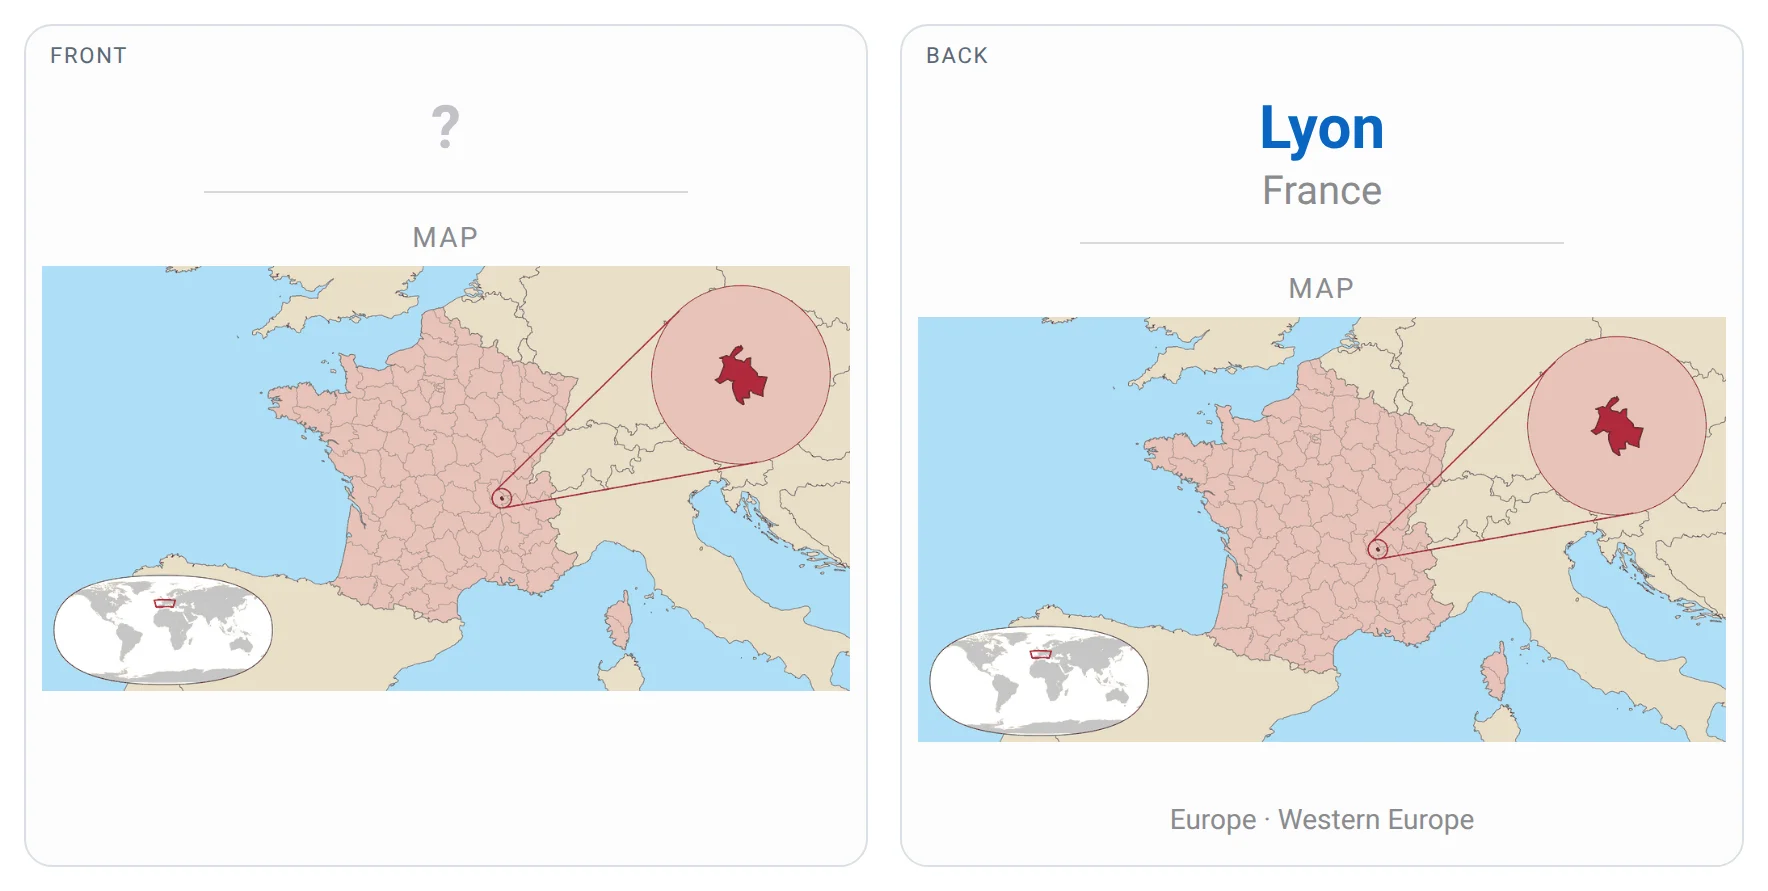
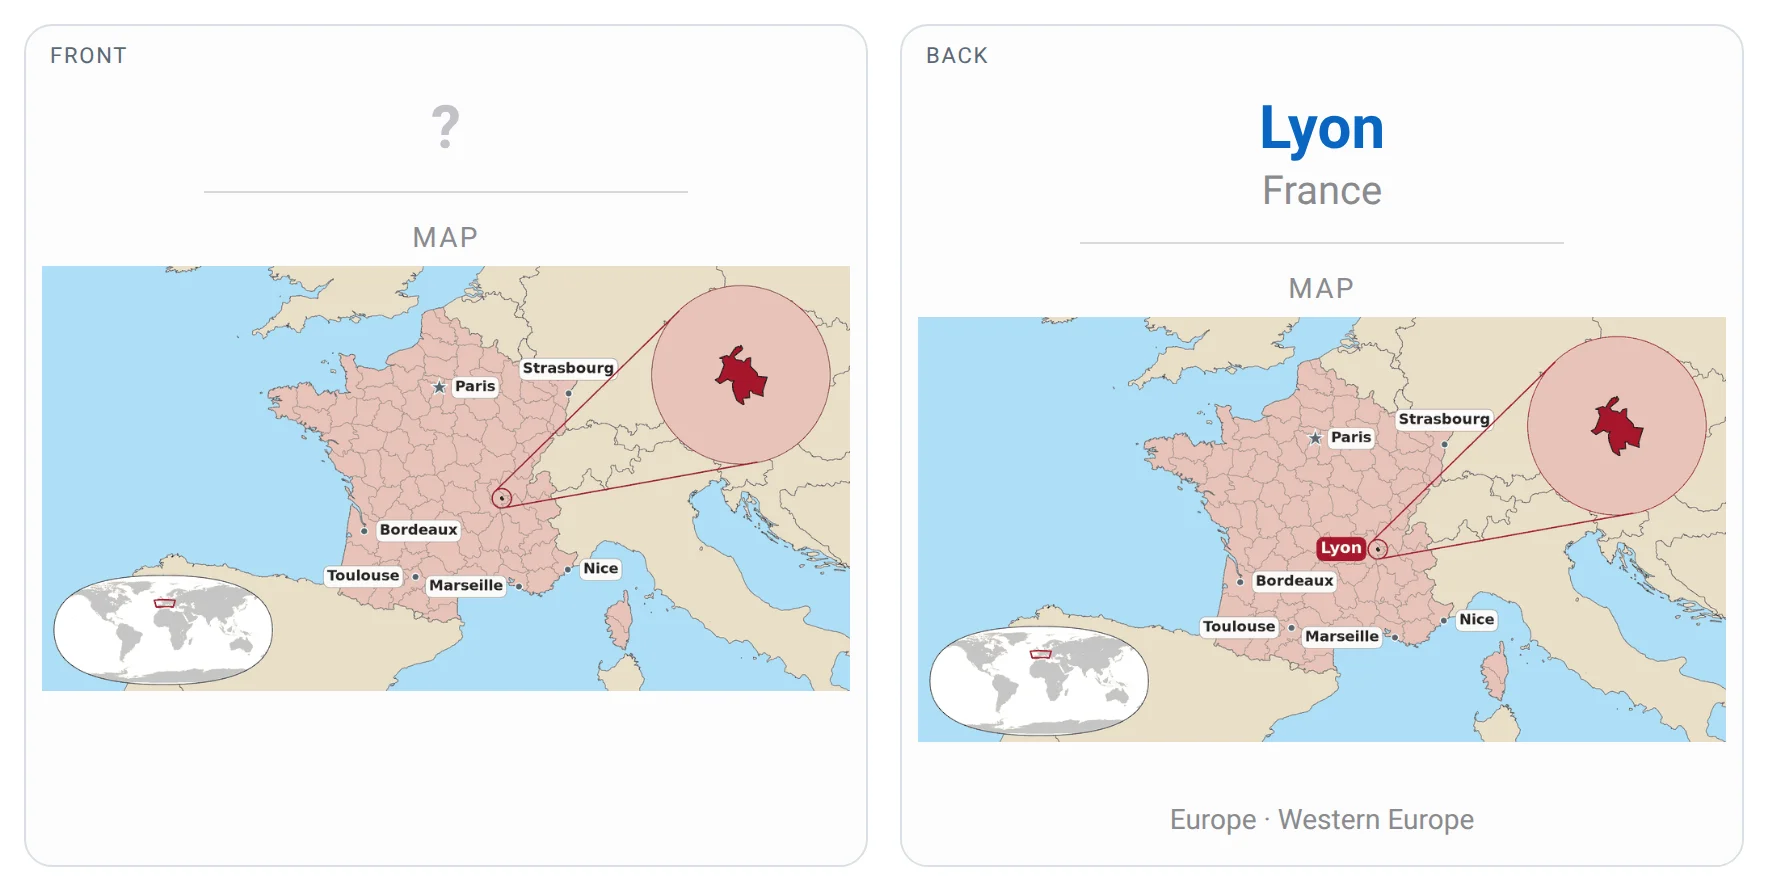
Describe the famous cities, the labelled maps and the update steps

diff --git a/README.md b/README.md
@@ -12,7 +12,7 @@ See [Ultimate Places](#ultimate-places) below.
 It is inspired by [Ultimate Geography](https://github.com/anki-geo/ultimate-geography), the deck that got me excited
 about learning geography. Ultimate Countries covers every country and territory with a permanent population: 247 in
 all, each with its flag, map and capital to learn, plus demonym, languages, currency, religion, population and
-government as facts on the back of the cards, and city maps.
+government as facts on the back of the cards, and the best-known cities on the map.
 
 Every value comes from public sources through code. There are no hand-written overrides, so the whole dataset can be
 rebuilt on any day to pick up changes (new currencies, new members of an organisation, updated population figures).
@@ -37,7 +37,7 @@ of government and notable cities, under a line with its region. They are there t
 
 A card is only created when its data exists, and a fact that is missing is simply left out.
 
-Tap or click a country map to zoom in on that spot; drag to look around, and tap again to close.
+Tap or click a country or city map to zoom in on that spot; drag to look around, and tap again to close.
 
 <p>
   <img src="docs/samples/countries-capital.webp" width="49%" alt="Capital card for France">
@@ -48,11 +48,13 @@ Tap or click a country map to zoom in on that spot; drag to look around, and tap
 
 ### City notes
 
-Capitals and notable cities, each with its own locator map:
+The best-known cities of the world, 186 of them in 100 countries, each with its own locator map. The map is drawn like
+an atlas page: the country's other cities are marked and named, the capital with a star, and the city being asked about
+is only outlined and magnified. The back of the card shows the same map with that city's name added:
 
 | Question | Answer |
 |---|---|
-| the city's locator map | City and country |
+| the city's locator map, with the country's other cities named | City and country, with the city named on the map |
 | Country: Lyon | France (not asked for capitals, which the capital cards already cover) |
 
 <p>
@@ -87,14 +89,19 @@ you import an update.
 
 ### Updating from an older version
 
-Older versions also asked demonym, language, currency, religion, population and government questions, and kept the cards
-in subdecks (Capitals, Flags, Maps, Cities and one per old question). Both changed. To update:
+Older versions also asked demonym, language, currency, religion, population and government questions, kept the cards
+in subdecks (Capitals, Flags, Maps, Cities and one per old question), and had a city note for every notable city. All of
+that changed. To update:
 
-1. Import the new version with **Merge note types** ticked in the import options, otherwise Anki skips the country notes
-   ("247 notes could not be imported").
+1. Import the new version with **Merge note types** ticked and **Update notes** set to **Always** in the import options.
+   Without the first, Anki skips the notes whose note type gained or lost fields ("247 notes could not be imported");
+   without the second it skips the city notes it considers unchanged.
 2. Choose Tools → Empty Cards and delete the old question cards. Your progress on capitals, flags and maps is kept.
 3. Importing does not move cards that already sit in subdecks. In the Browser, select all the cards in "Ultimate
    Countries", choose Change Deck and pick "Ultimate Countries" itself, then delete the empty subdecks.
+4. Importing does not remove cities that are no longer in the deck. In the Browser, search for
+   `"note:Ultimate Countries city" MapAnswer:`, which finds the old city notes, select them all and delete them.
+5. Choose Tools → Check Media → Delete Unused to clear the old city maps.
 
 The note type also keeps six unused fields (`DemonymInfo`, `LanguageInfo`, `CurrencyInfo`, `ReligionInfo`,
 `PopulationInfo`, `GovernmentInfo`), which you can delete under Tools → Manage Note Types → Fields.
@@ -156,7 +163,8 @@ from the Wikipedia infobox; photos from Wikimedia Commons.
 | Country list | ISO 3166, restcountries | Every entity with an ISO 3166 code, plus sovereign states without one (Kosovo, Abkhazia…), keeping only places with a permanent population: listed in Wikipedia's population list, or at least 2,250 people |
 | Name | Wikipedia | The title of the country's English Wikipedia article, which follows the most common English name |
 | Demonym, currencies, government label, capitals | restcountries | Demonym spelling cross-checked with Wikidata |
-| Capital cities, notable cities, city populations | Wikidata, GeoNames | Notable cities rank on fame (Wikipedia sitelinks) and size, skipping suburbs and villages |
+| Capital cities, notable cities, city populations | Wikidata, GeoNames | Up to five notable cities per country rank on fame (Wikipedia sitelinks) and size, skipping suburbs and villages. They are the "Cities" chip on the cards and the labels on the city maps |
+| City cards | Natural Earth populated places, Wikidata, Wikipedia | A city that Wikipedia covers in at least 180 languages and that has at least 100,000 people, or one on Wikipedia's most-visited cities lists (Euromonitor, Mastercard) with at least 100 languages. At most eight per country, ranked by fame and size; cities that are countries themselves are left out |
 | Population | World Bank | Latest figure, at most 5 years old; restcountries otherwise |
 | Official languages | Wikipedia, Wikidata | National and regional status from Wikipedia's list of official languages |
 | Spoken languages | Unicode CLDR | Includes second-language speakers |
@@ -187,13 +195,14 @@ uv run geography places-deck  # build build/ultimate_places.apkg
 uv run geography samples      # render the sample cards in docs/samples/ from the built decks
 ```
 
-The first `collect` downloads several hundred MB of source data and renders about 1,170 maps, which takes a few hours.
+The first `collect` downloads several hundred MB of source data and renders about 620 maps, which takes a few hours.
 Later runs reuse the caches.
 
 Useful options:
 
 - `collect --skip-maps` refreshes the data only
-- `collect --refresh-cities` re-ranks notable cities, which are otherwise refreshed every 30 days
+- `collect --refresh-cities` re-ranks notable and famous cities, which are otherwise refreshed every 30 days
+- `collect --only-cities` selects the famous cities and renders their maps without refreshing any other data
 - `collect --rerender-maps` redraws every map
 - `collect --workers N` sets the number of parallel map renderers (default 4)
 - `check --details` lists every failure and anomaly
